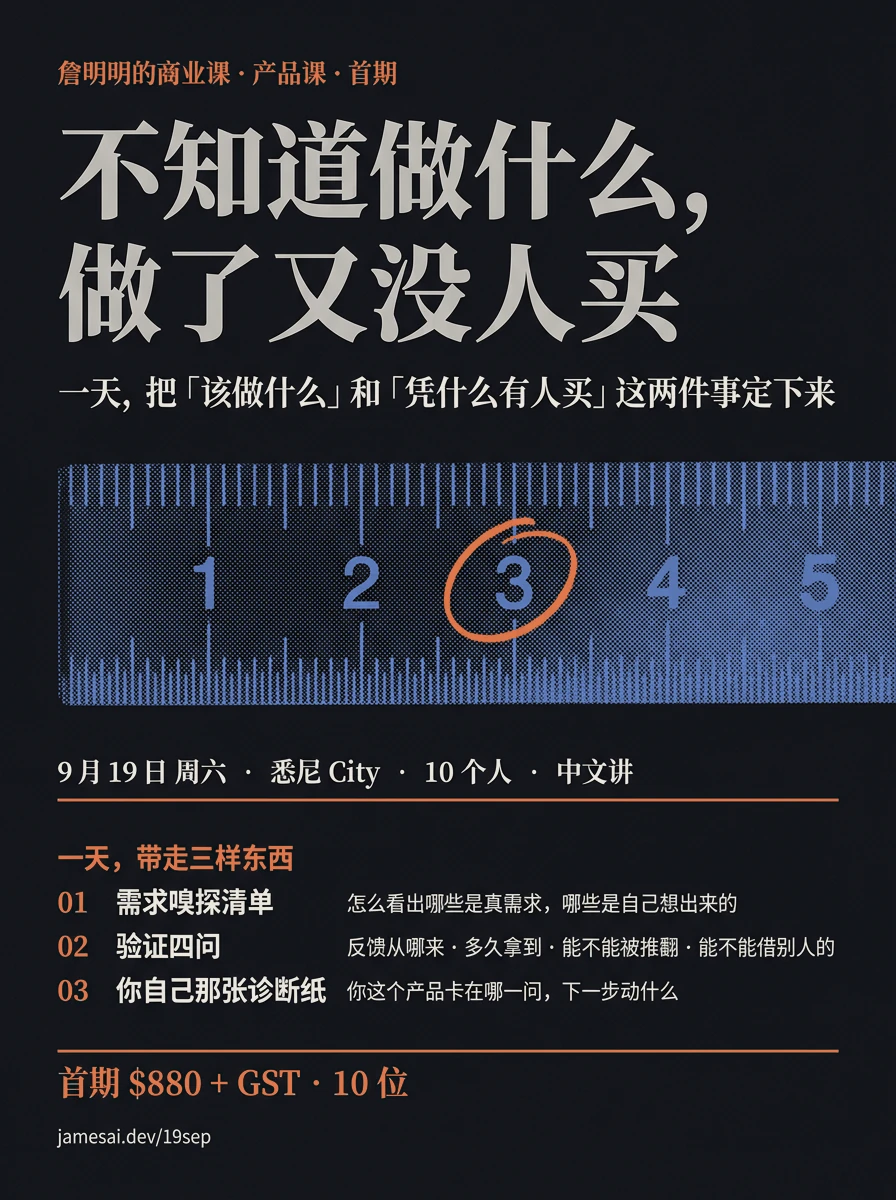
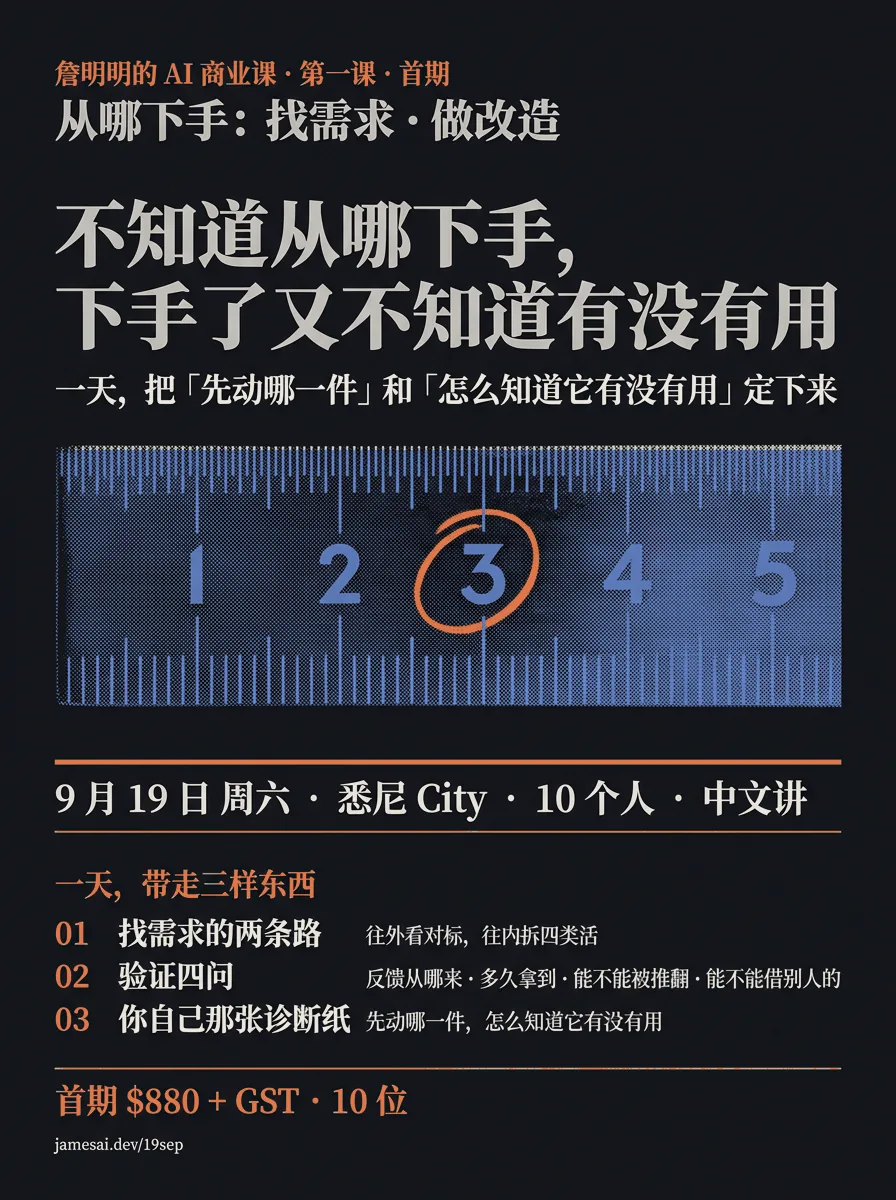
Rename the class to what both rooms call it, and open the day with two doors

diff --git a/19sep/index.html b/19sep/index.html
@@ -3,8 +3,8 @@
 <head>
 <meta charset="utf-8">
 <meta name="viewport" content="width=device-width, initial-scale=1, viewport-fit=cover">
-<title>产品课 · 詹明明的商业课 · 9月19日 悉尼</title>
-<meta name="description" content="2026年9月19日周六，悉尼 City，一整天，10 个人，中文讲。一天把「该做什么」和「凭什么有人买」这两件事定下来。带走：需求嗅探清单 · 验证四问 · 你自己那张诊断纸。">
+<title>从哪下手 · 詹明明的 AI 商业课 · 9月19日 悉尼</title>
+<meta name="description" content="2026年9月19日周六，悉尼 City，一整天，10 个人，中文讲。一天把「先动哪一件」和「怎么知道它有没有用」定下来。老板往内拆四类活，做产品的往外看对标，同一把尺子。">
 <meta name="theme-color" content="#F5F1E8" media="(prefers-color-scheme: light)">
 <meta name="theme-color" content="#14161C" media="(prefers-color-scheme: dark)">
 <link rel="icon" href="../assets/favicon.png" sizes="48x48">
@@ -13,8 +13,8 @@
 <link rel="apple-touch-icon" href="../assets/favicon-180.png">
 <link rel="canonical" href="https://jamesai.dev/19sep/">
 <meta property="og:type" content="website">
-<meta property="og:title" content="不知道做什么，做了又没人买">
-<meta property="og:description" content="《詹明明的商业课 · 产品课》首期 · 9月19日周六 · 悉尼 City · 10 个人 · 中文讲">
+<meta property="og:title" content="不知道从哪下手，下手了又不知道有没有用">
+<meta property="og:description" content="《詹明明的 AI 商业课》第一课 · 从哪下手：找需求 · 做改造 · 9月19日周六 · 悉尼 City · 10 个人">
 <meta property="og:url" content="https://jamesai.dev/19sep/">
 <meta property="og:image" content="https://jamesai.dev/19sep/poster.png">
 <meta name="twitter:card" content="summary_large_image">
@@ -472,16 +472,17 @@ footer a { color: var(--ink-soft); text-decoration: none; border-bottom: 1px sol
        look bolted on after the restyle. The download and the og:image stay the
        day sheet: that is the one people share. -->
   <a class="poster-link" href="poster.png?v=2"><img class="poster" id="poster"
-       src="poster.webp?v=2" data-day="poster.webp?v=2" data-night="poster-night.webp?v=2"
+       src="poster.webp?v=3" data-day="poster.webp?v=3" data-night="poster-night.webp?v=3"
        width="896" height="1200" fetchpriority="high" decoding="async"
-       alt="詹明明的商业课 · 产品课 · 首期。不知道做什么，做了又没人买。一天，把「该做什么」和「凭什么有人买」这两件事定下来。9 月 19 日周六，悉尼 City，10 个人，中文讲。一天带走三样东西：需求嗅探清单、验证四问、你自己那张诊断纸。首期 $880 + GST，10 位。"></a>
+       alt="詹明明的 AI 商业课 · 第一课 · 首期。从哪下手：找需求 · 做改造。不知道从哪下手，下手了又不知道有没有用。一天，把「先动哪一件」和「怎么知道它有没有用」定下来。9 月 19 日周六，悉尼 City，10 个人，中文讲。一天带走三样东西：找需求的两条路、验证四问、你自己那张诊断纸。首期 $880 + GST，10 位。"></a>
 
   <section>
     <h2>这是哪一门</h2>
-    <p class="lead">《詹明明的商业课》分三门，各自独立，分开报名：<span class="k">产品课</span>（这一门）、内容课、AI 课。</p>
+    <p class="lead">《詹明明的 AI 商业课》分两门，各自独立，分开报名。<br><span class="k">第一课 · 从哪下手</span>（这一门）、第二课 · 怎么让人找到你。</p>
     <p class="soft">
-      产品课只讲线上产品：怎么判断你做的东西成不成立，做出来之后怎么让它有人买。
-      内容课讲获客和自媒体，AI 课讲人机协同和系统搭建。那两门稍后再开。
+      第一课讲的是同一件事的两个入口：<b>已经有业务的，往内拆</b>——公司或账号里那件没人愿意干又天天要干的活，
+      就是 AI 该下手的地方；<b>还没有业务的，往外找</b>——市场上谁已经在为类似的东西付钱。
+      第二课讲获客：内容怎么做，以及客户问 AI 要推荐名单的时候，里面有没有你。
     </p>
   </section>
 
@@ -489,65 +490,70 @@ footer a { color: var(--ink-soft); text-decoration: none; border-bottom: 1px sol
     <h2>那天怎么过</h2>
     <dl class="clock">
       <div><dt>09:30</dt><dd>签到</dd></div>
-      <div><dt>10:00</dt><dd>上午</dd></div>
+      <div><dt>10:00</dt><dd>上午 · 共用的那把尺子</dd></div>
+      <div><dt>11:45</dt><dd>分两桌 · 有业务的往内拆，没业务的往外找，做完互相讲</dd></div>
       <div><dt>12:30</dt><dd>午餐 · 一小时，自理（课程不含餐）</dd></div>
       <div><dt>13:30</dt><dd>下午</dd></div>
       <div><dt>17:30</dt><dd>结束</dd></div>
     </dl>
-    <p class="lead">不教工具怎么用。六段按顺序走，后一段要靠前一段的结论。</p>
+    <p class="lead">不教工具怎么用。七段按顺序走，后一段要靠前一段的结论。</p>
     <ol class="run">
       <li>
-        <b>你做的那个东西，还不算产品</b>
-        <span>人人都做得出来的，叫物品。把物变成商品的是顾客，不是你。这条差别不先摆清楚，后面全是白使劲。</span>
+        <b>你做出来的那个东西，还不算数</b>
+        <span>人人都做得出来的，叫物品；把物变成商品的是顾客。同一句话换到公司里：买回来的工具还不叫产能，把工具变成产能的是流程。</span>
       </li>
       <li>
         <b>判据不能归干活的那个人所有</b>
-        <span>你现在既是做的人，又是给自己打分的人。所以你看不出问题在哪。改了三版还是没人买，也是这个原因。</span>
+        <span>做产品的人：你既是做的人，又是给自己打分的人。老板：AI 把活干完了，谁来验收，标准是谁定的。这是同一个毛病，只是坐的位置不同。</span>
       </li>
       <li>
-        <b>需求嗅探：哪些是真需求，哪些是你自己想出来的</b>
-        <span>还没想好做什么的，这一段就是给你的。去哪儿看，看什么，怎么判断一个需求真的有人在为它花钱。已经在做的人，用它回头检一遍自己那个。</span>
+        <b>那把尺子：谁在为它付代价</b>
+        <span>没有人在为它付代价的地方，不是需求。你自己每周花在上面的小时数是代价，别人掏的钱也是代价。<b>两边量的是同一样东西。</b></span>
+      </li>
+      <li>
+        <b>分两桌，半小时，做完互相讲</b>
+        <span><b>有业务的往内拆</b>：把公司或账号里的活分成搬运、归类、生成、拍板四类，找出付代价最重的那一段。<b>没业务的往外找</b>：收入榜、竞品定价页、付费对标，找出别人已经在为什么掏钱。<b>互相讲那一步不能省</b>——老板缺的是怎么往外看，做产品的缺的是一个真实生意内部长什么样。</span>
       </li>
       <li>
         <b>验证四问</b>
-        <span>反馈从哪来，多久拿到，能不能被推翻，能不能借别人的。这把尺子你带得走，以后每个新点子自己就能过一遍。</span>
+        <span>反馈从哪来，多久拿到，能不能被推翻，能不能借别人的。这把尺子你带得走，以后每个新念头自己就能过一遍。</span>
       </li>
       <li>
         <b>十个人，一个一个上来</b>
-        <span>把你的产品拿出来，当场过一遍四问，我现场拆。还没开始做的，就拿你正在考虑的那个方向。这是那天最花时间的部分，也是你来的原因。</span>
+        <span>把你手上那件事拿出来，当场过一遍四问，我现场拆。做产品的拿产品，有业务的拿刚才那张四类活表。<b>这是那天最花时间的部分，也是你来的原因。</b></span>
       </li>
       <li>
         <b>收尾：把你那张纸写完</b>
-        <span>卡在哪一问，下一步动什么。</span>
+        <span>先动哪一件，怎么知道它有没有用。</span>
       </li>
     </ol>
-    <p class="soft">带上你的产品，能当场打开给我看的那个版本就行。还没开始做的，带上你正在考虑的两三个方向。</p>
+    <p class="soft">有业务的，带上你最近一周真实的活——哪件事花的时间最多。做产品的，带上能当场打开给我看的那个版本。都还没有的，带上你正在考虑的两三个方向。</p>
   </section>
 
   <div class="takeaway">
     <h3>你带走什么</h3>
     <ol>
-      <li><span class="t">需求嗅探清单。</span>怎么看出哪些是真需求。</li>
+      <li><span class="t">找需求的两条路。</span>往外看对标，往内拆四类活。</li>
       <li><span class="t">验证四问。</span>这把尺子你带得走。</li>
-      <li><span class="t">你自己那张诊断纸。</span>卡在哪一问，下一步动什么。</li>
+      <li><span class="t">你自己那张诊断纸。</span>先动哪一件，怎么知道它有没有用。</li>
     </ol>
-    <span class="after">还有一样不在清单上：另外九个项目被拆开的过程。十个人的场，你只讲一次，听九次。</span>
+    <span class="after">还有一样不在清单上：另外九个人的东西被拆开的过程。十个人的场，你只讲一次，听九次——而且有一半人跟你不是同一类，那正是你自己看不到的那半边。</span>
   </div>
 
   <section style="margin-top:clamp(2.25rem,6vw,3.25rem)">
     <h2>给谁</h2>
-    <p class="lead">两种人这天都覆盖。</p>
+    <p class="lead">两种出发点，这天都覆盖。</p>
     <div class="who">
       <div>
-        <b>已经在做线上产品或工具的</b>
-        <span class="soft">独立开发、出海、SaaS、副业项目都算。东西做出来了，没人知道，也没人付钱。</span>
+        <b>已经有业务的</b>
+        <span class="soft">开公司的、做自媒体的、有稳定获客渠道的都算。生意在跑，但说不清 AI 该从哪一段插进去，或者上了一圈说不清到底有没有用。</span>
       </div>
       <div>
-        <b>想做但还不知道做什么的</b>
-        <span class="soft">有时间有能力，就是不知道往哪儿使劲，或者几个方向定不下来。</span>
+        <b>还在找该做什么的</b>
+        <span class="soft">独立开发、想出海、程序员做副业。有时间有能力，就是不知道往哪儿使劲，或者做出来了没人买。</span>
       </div>
     </div>
-    <p class="soft">不覆盖两种人：做线下生意的老板（这一门只讲线上产品），想学某个工具怎么操作的。</p>
+    <p class="soft">不覆盖一种人：只想学某个工具怎么操作的。那天全程围绕你自己手上那件事转。</p>
   </section>
 
   <section>
